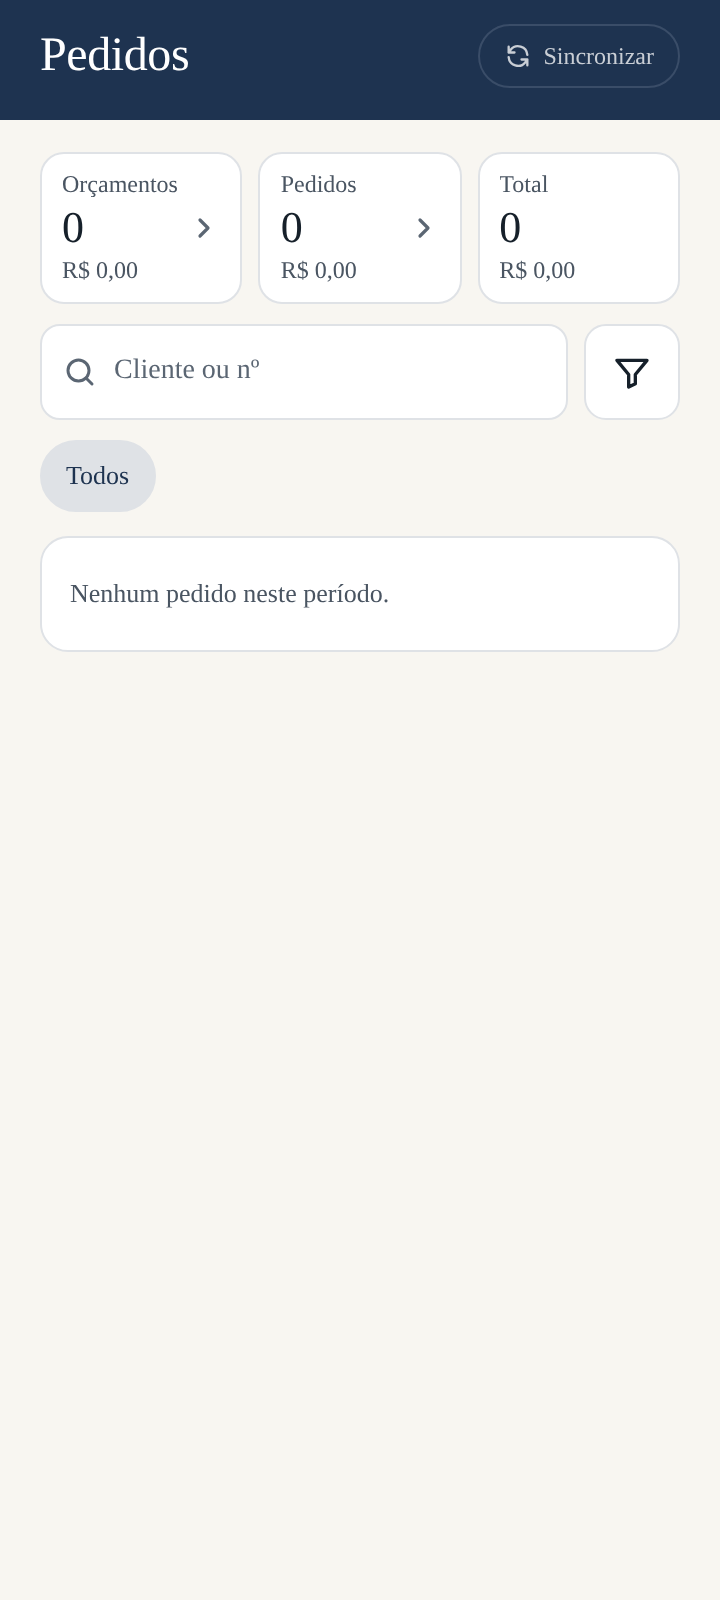
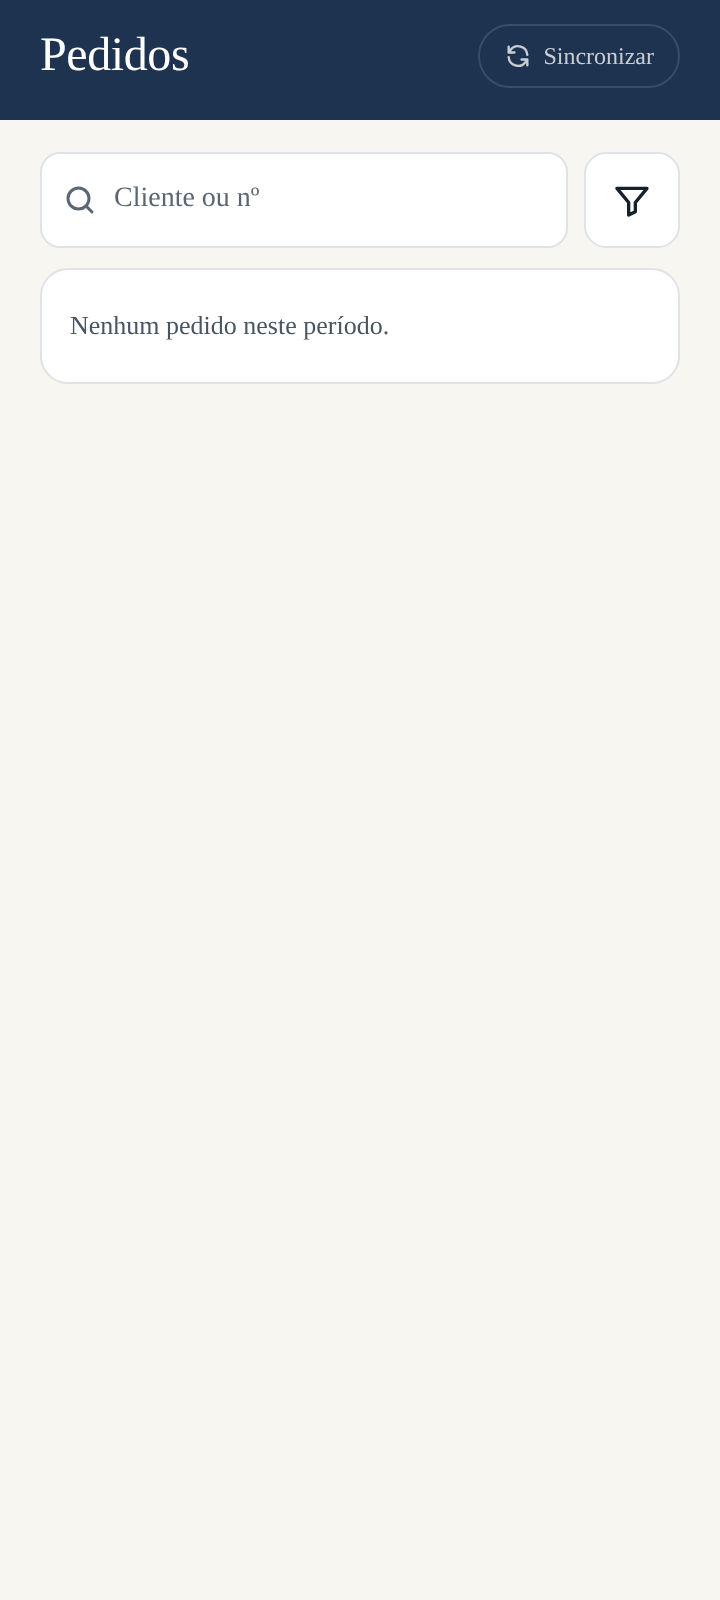
modulo-vendedor — RD-0262 e RD-0263: nome "Pedidos" e vazio sem cartões
RD-0262: o rótulo acessível do cartão e o chip que ele abre passam de
"Pedidos enviados" para "Pedidos" (RN-VEN-43 e testID orders-card-enviados
iguais).
RD-0263: período sem pedido (total zerado, lista do período vazia, sem
busca) esconde os 3 cartões e a linha de chips; fica a busca, o filtro e
"Nenhum pedido neste período." Regra em periodoSemPedidos, com teste.
Prints do vazio refeitos.

Agente: modulo-vendedor

Claude-Session: https://claude.ai/code/session_0157qAhn7njvT84c8ir5auVd

diff --git a/modules/vendedor/app/screens/orders-screen.tsx b/modules/vendedor/app/screens/orders-screen.tsx
@@ -42,6 +42,7 @@ import { pedidoEnviado, resumoDePedidos } from '../../domain/resumo-pedidos';
 import { CardsDePedidos, type CardDePedidos } from '../components/cards-pedidos';
 import { relogioReal } from '@macuxi/comum/relogio';
 import { caminhoDaConsultaPorPeriodo, estadoDaConsulta, juntarServidorComAparelho, pedidosDaConsulta, resumoDaBusca, rotuloRemoverVendedor, situacaoAoEscolherPeriodo, textoDoVazio, PAGINAS_MAXIMAS_DA_CONSULTA } from '../lib/consulta-periodo';
+import { periodoSemPedidos } from '../lib/cards-pedidos';
 import { trechosDoNumero } from '../lib/destaque-numero';
 import { seloDaLinha } from '../lib/selo-lista';
 import { statusBadgeDaLinha } from '../lib/order-status';
@@ -180,6 +181,8 @@ export default function OrdersScreen() {
     () => (semResposta ? null : resumoDePedidos(itens.map((i) => ({ ...i.pedido, emitido_em: i.emitido_em })), { periodo, tz })),
     [itens, periodo, tz, semResposta],
   );
+  // RD-0263: período sem pedido fica só com a frase do vazio (sem os 3 cartões zerados nem o chip "Todos" sozinho)
+  const periodoVazio = periodoSemPedidos({ resumo: cards, itensNoPeriodo: base.length, buscando });
   const abrirCard = (c: CardDePedidos) => setSituacao(c === 'orcamentos' ? 'card_orc' : 'card_env');
   // T-0090: a folha Período e a etiqueta; tudo derivado do período em vigor (cálculo barato, refeito só quando ele muda)
   const hojeDia = periodoDe('dia', new Date(), tz).valor;
@@ -291,7 +294,7 @@ export default function OrdersScreen() {
         }
         ListHeaderComponent={
           <View style={styles.cabecalho}>
-            <CardsDePedidos resumo={cards} onAbrir={abrirCard} />
+            {periodoVazio ? null : <CardsDePedidos resumo={cards} onAbrir={abrirCard} />}
 
             {totalRascunhos > 0 ? (
               <SePode acao="pedido.criar">
@@ -378,7 +381,7 @@ export default function OrdersScreen() {
                   </View>
                 ) : null}
 
-                {semResposta ? null : (
+                {semResposta || periodoVazio ? null : (
                   <ScrollView
                     horizontal
                     showsHorizontalScrollIndicator={false}
@@ -388,7 +391,7 @@ export default function OrdersScreen() {
                     {gestao ? <Chip testID="chip-decide" label="Para aprovar" active={atual === 'decide'} onPress={() => setSituacao('decide')} /> : null}
                     {atual === 'a_faturar' ? <Chip testID="chip-a-faturar" label={ROTULO_A_FATURAR} active onPress={() => setSituacao('a_faturar')} /> : null}
                     {atual === 'card_orc' ? <Chip testID="chip-card-orc" label="Orçamentos em aberto" active onPress={() => setSituacao('card_orc')} /> : null}
-                    {atual === 'card_env' ? <Chip testID="chip-card-env" label="Pedidos enviados" active onPress={() => setSituacao('card_env')} /> : null}
+                    {atual === 'card_env' ? <Chip testID="chip-card-env" label="Pedidos" active onPress={() => setSituacao('card_env')} /> : null}
                     {chips.map((c) => (
                       <Chip key={c.id} testID={`chip-${c.id}`} label={c.rotulo} active={atual === c.id} onPress={() => setSituacao(c.id)} />
                     ))}

diff --git a/modules/vendedor/app/lib/cards-pedidos.test.ts b/modules/vendedor/app/lib/cards-pedidos.test.ts
@@ -1,7 +1,7 @@
 import { describe, expect, it } from 'vitest';
 import { periodoDe } from '../../domain/busca-periodo';
 import { resumoDePedidos } from '../../domain/resumo-pedidos';
-import { quantidadeDoCard, textoDoCard, valorDoCard } from './cards-pedidos';
+import { periodoSemPedidos, quantidadeDoCard, textoDoCard, valorDoCard } from './cards-pedidos';
 
 describe('RN-VEN-43: cards de Pedidos', () => {
   it('RN-VEN-43: texto do card = quantidade · valor; sem resposta, traço', () => {
@@ -27,5 +27,26 @@ describe('RN-VEN-43: cards de Pedidos', () => {
     expect(quantidadeDoCard(null)).toBe('—');
     expect(valorDoCard(null)).toBeNull();
     expect(`${quantidadeDoCard(q)} · ${valorDoCard(q)}`).toBe(textoDoCard(q));
+  });
+});
+
+describe('RD-0263: período vazio mostra só a frase do vazio', () => {
+  const zero = { quantidade: 0, valor_cents: 0 };
+  const vazio = { orcamentos: zero, enviados: zero, total: zero };
+  it('RN-VEN-43: total zerado e lista do período vazia, sem busca: esconde cartões e chips', () => {
+    expect(periodoSemPedidos({ resumo: vazio, itensNoPeriodo: 0, buscando: false })).toBe(true);
+  });
+  it('com pedido no período (total > 0) os cartões ficam', () => {
+    const um = { quantidade: 1, valor_cents: 1000 };
+    expect(periodoSemPedidos({ resumo: { orcamentos: zero, enviados: um, total: um }, itensNoPeriodo: 1, buscando: false })).toBe(false);
+  });
+  it('total zerado mas com rascunho, fila ou recusado na lista do período: os chips seguem úteis', () => {
+    expect(periodoSemPedidos({ resumo: vazio, itensNoPeriodo: 2, buscando: false })).toBe(false);
+  });
+  it('sem resposta do servidor (resumo nulo) não é vazio: o cartão mostra o estado', () => {
+    expect(periodoSemPedidos({ resumo: null, itensNoPeriodo: 0, buscando: false })).toBe(false);
+  });
+  it('buscando: o vazio é da busca, não do período', () => {
+    expect(periodoSemPedidos({ resumo: vazio, itensNoPeriodo: 0, buscando: true })).toBe(false);
   });
 });

diff --git a/modules/vendedor/app/lib/cards-pedidos.ts b/modules/vendedor/app/lib/cards-pedidos.ts
@@ -1,5 +1,5 @@
 import { formatBRL } from '@macuxi/comum';
-import type { QuantidadeEValor } from '../../domain/resumo-pedidos';
+import type { QuantidadeEValor, ResumoDePedidos } from '../../domain/resumo-pedidos';
 
 /** RN-VEN-43: "quantidade · valor"; sem resposta do servidor, traço. */
 export function textoDoCard(q: QuantidadeEValor | null): string {
@@ -14,4 +14,12 @@ export function quantidadeDoCard(q: QuantidadeEValor | null): string {
 /** RN-VEN-43: valor em R$ do cartão; sem resposta do servidor, nulo (o cartão mostra só o traço da quantidade). */
 export function valorDoCard(q: QuantidadeEValor | null): string | null {
   return q ? formatBRL(q.valor_cents) : null;
+}
+
+/**
+ * RD-0263: período sem nenhum pedido (total zerado e lista do período vazia, sem busca). A tela esconde os cartões e os chips
+ * e fica só com a frase do vazio. Sem resposta do servidor (resumo nulo) não é vazio: o cartão mostra o estado.
+ */
+export function periodoSemPedidos(e: { resumo: ResumoDePedidos | null; itensNoPeriodo: number; buscando: boolean }): boolean {
+  return e.resumo !== null && e.resumo.total.quantidade === 0 && e.itensNoPeriodo === 0 && !e.buscando;
 }

diff --git a/modules/vendedor/app/components/cards-pedidos.tsx b/modules/vendedor/app/components/cards-pedidos.tsx
@@ -40,7 +40,7 @@ export function CardsDePedidos({ resumo, onAbrir }: { resumo: ResumoDePedidos | 
   return (
     <View testID="orders-cards" style={{ flexDirection: 'row', gap: 8 }}>
       <Card testID="orders-card-orcamentos" titulo="Orçamentos em aberto" rotulo="Orçamentos" q={resumo?.orcamentos ?? null} onPress={() => onAbrir('orcamentos')} />
-      <Card testID="orders-card-enviados" titulo="Pedidos enviados" rotulo="Pedidos" q={resumo?.enviados ?? null} onPress={() => onAbrir('enviados')} />
+      <Card testID="orders-card-enviados" titulo="Pedidos" rotulo="Pedidos" q={resumo?.enviados ?? null} onPress={() => onAbrir('enviados')} />
       <Card testID="orders-card-total" titulo="Total" rotulo="Total" q={resumo?.total ?? null} />
     </View>
   );
